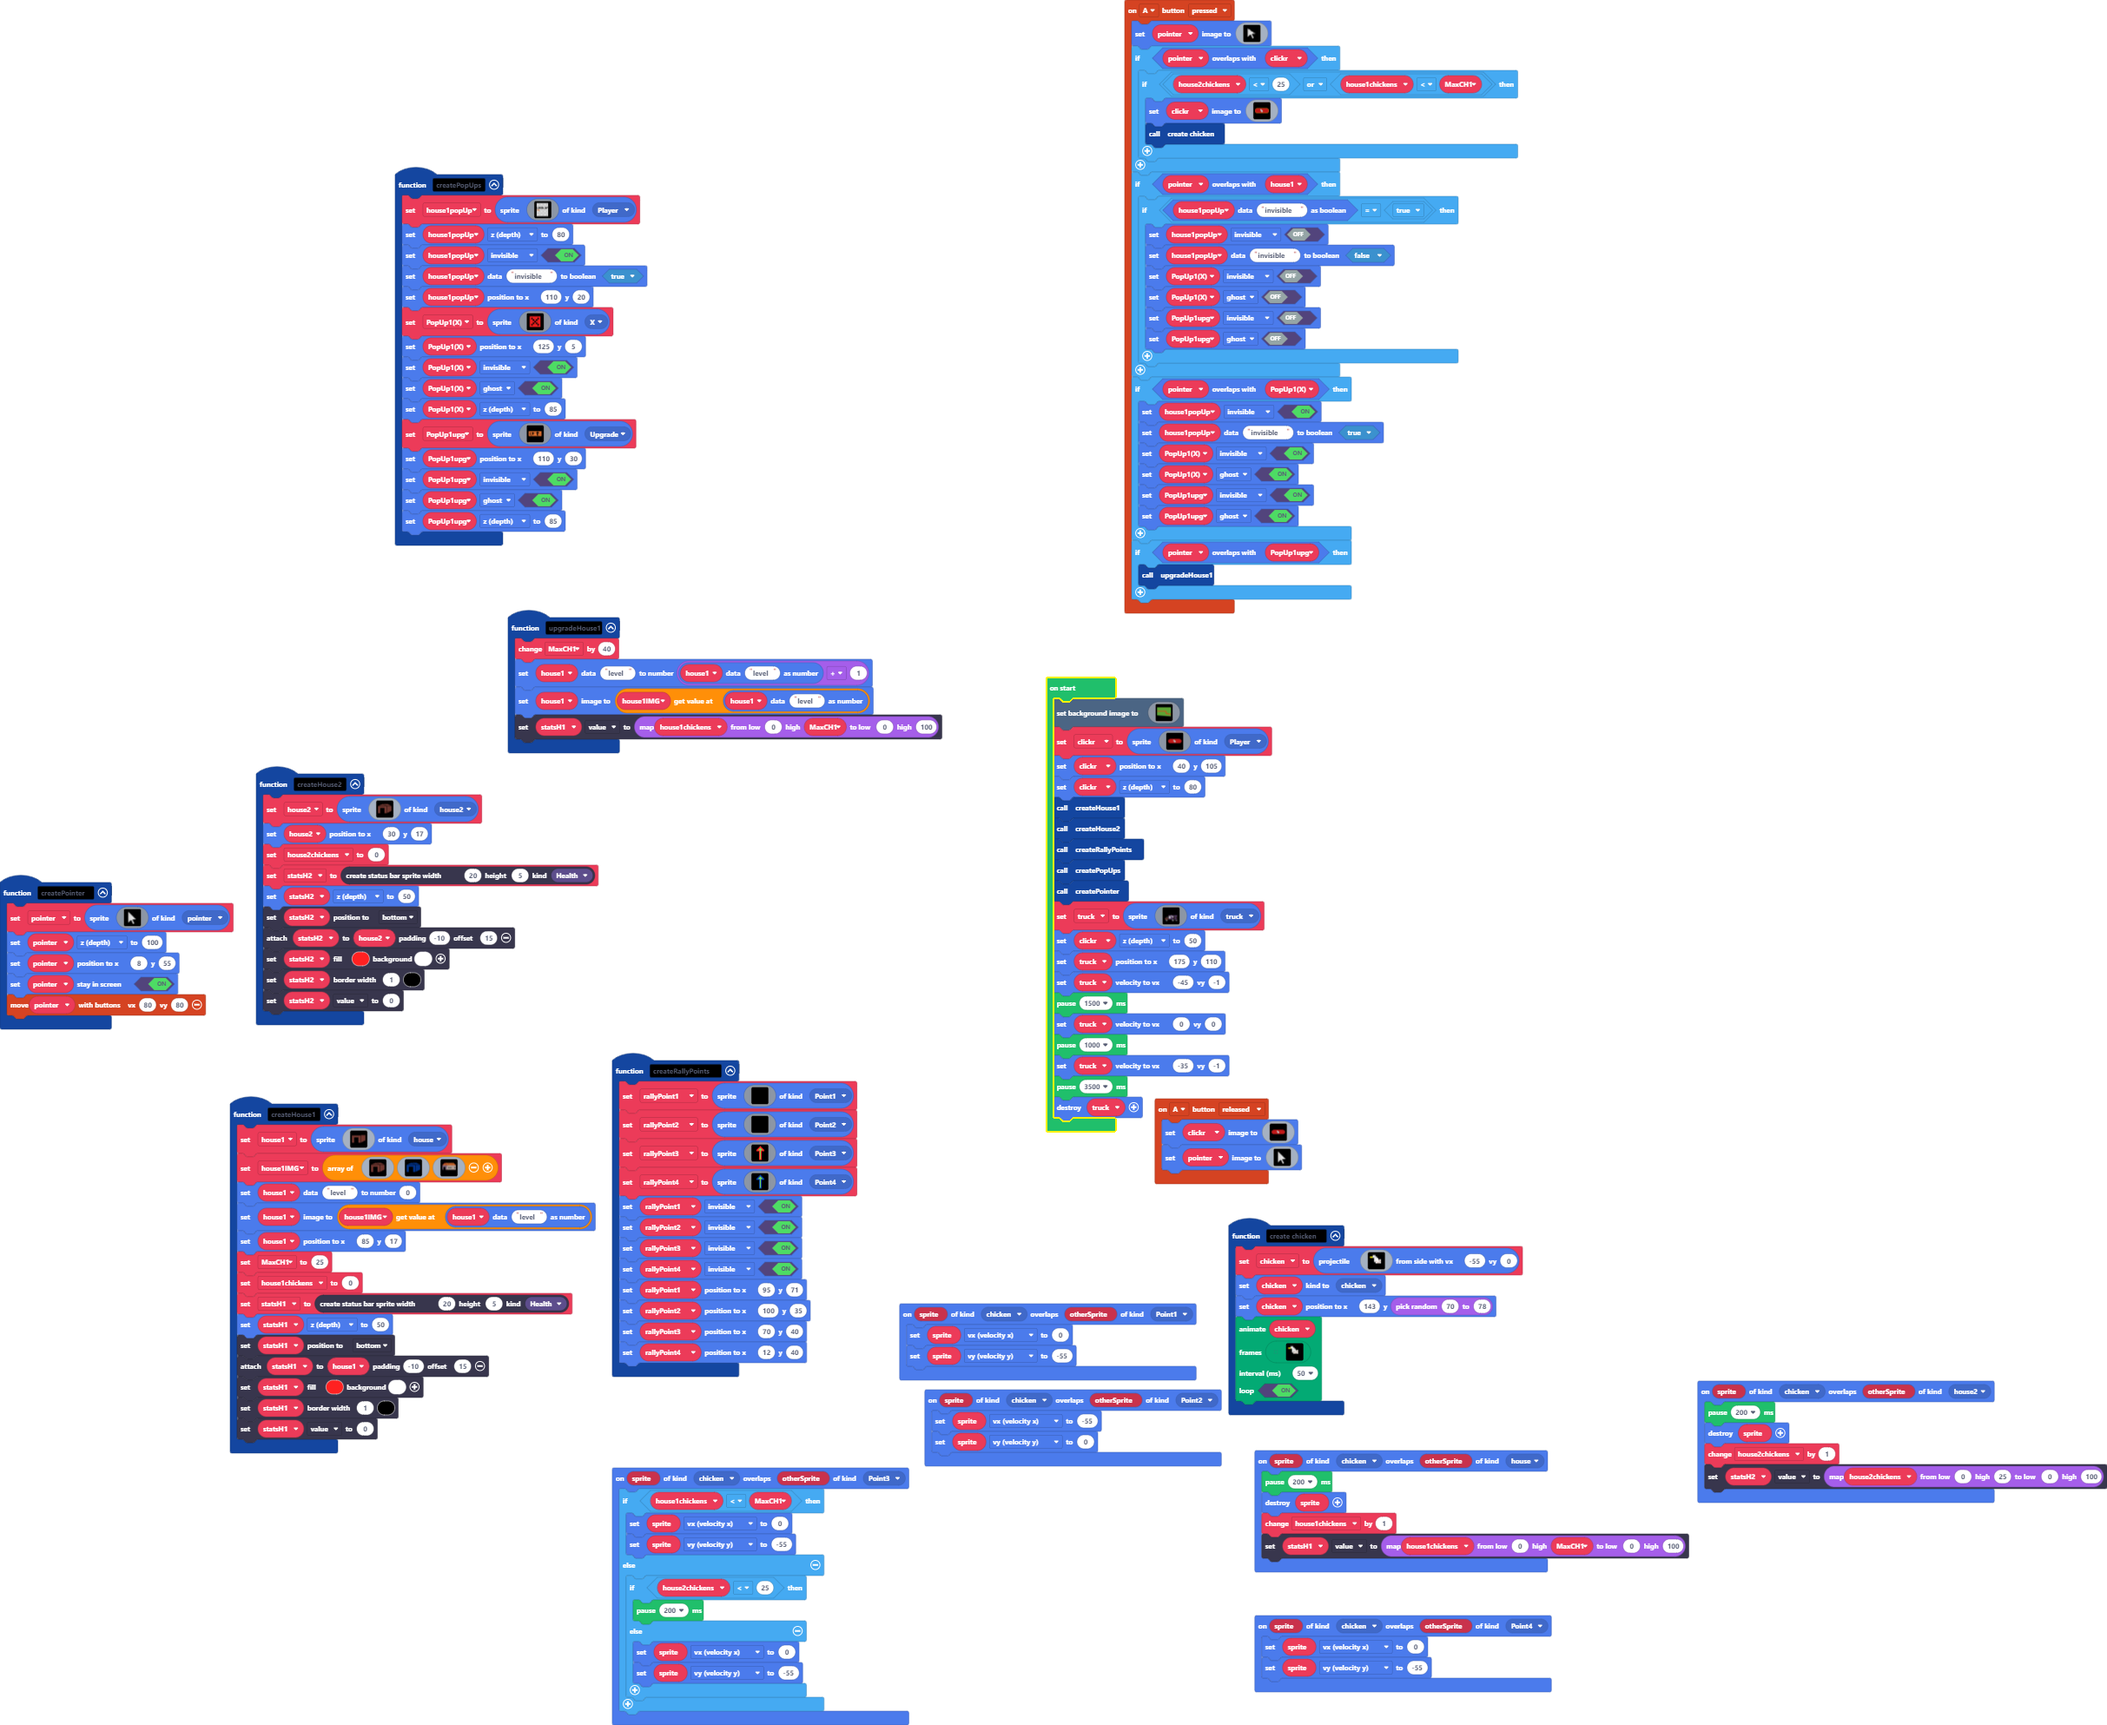
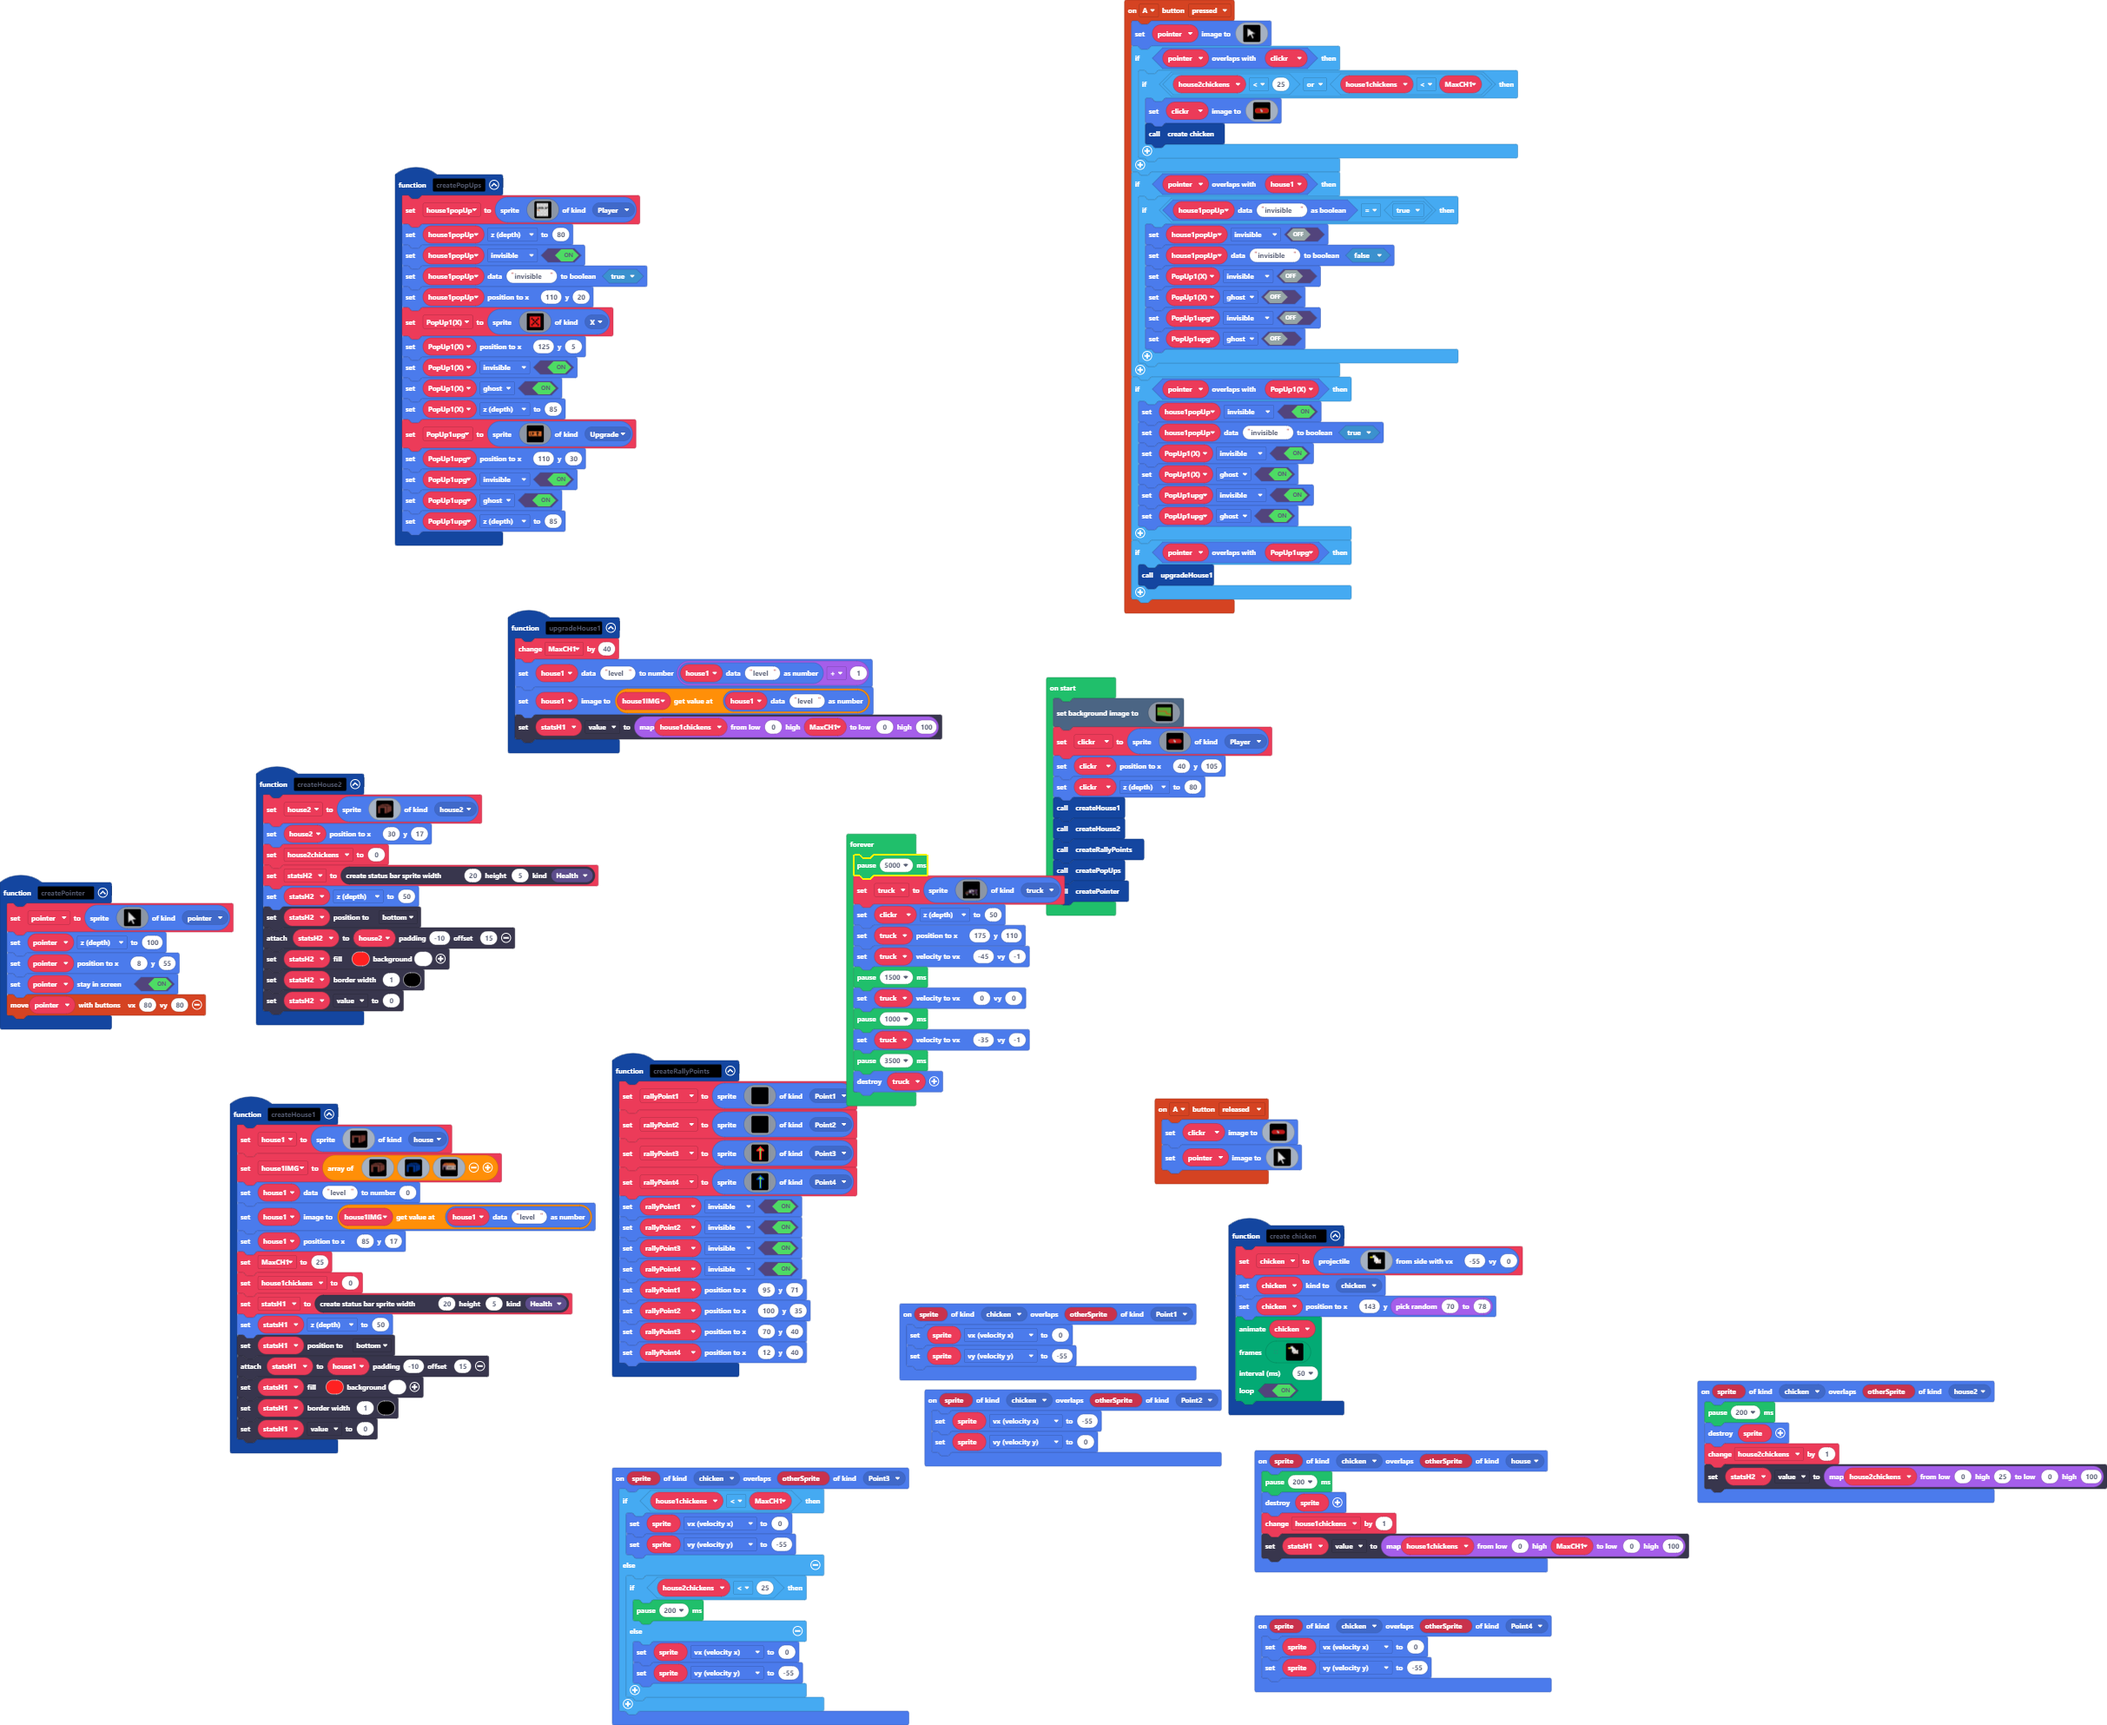
A truck will come every 5 seconds

Changed region(s): [[0.4019, 0.4683, 0.6183, 0.6556]]

diff --git a/main.ts b/main.ts
@@ -638,6 +638,7 @@ sprites.onOverlap(SpriteKind.chicken, SpriteKind.Point1, function (sprite, other
     sprite.vx = 0
     sprite.vy = -55
 })
+let truck: Sprite = null
 let statsH1: StatusBarSprite = null
 let house1IMG: Image[] = []
 let rallyPoint4: Sprite = null
@@ -811,44 +812,47 @@ createHouse2()
 createRallyPoints()
 createPopUps()
 createPointer()
-let truck = sprites.create(img`
-    ........................................
-    ........................................
-    ........................................
-    ........................................
-    ........................................
-    ........................................
-    ........................................
-    ........................................
-    ........................................
-    ..............ff........................
-    .............fff........................
-    .............ff.........................
-    ............fffffffffffffffffffffffffff.
-    ............fccccccc11ccccccfcccccccccf.
-    ...........ffccccccc1cccccccfcccccccccf.
-    ..........fefccc1ccc11ccccccfcccccccccf.
-    .........ffffcc111cc1cc11c11fcccccccccf.
-    ........feeefc11111c11c11c11fcccccccccf.
-    .....ffff66efc11111ccccc1cc1fffcccccfff.
-    ....feeef66efc11111cccc11c11f5fcccccf5f.
-    ...feeeef66efc11111cccccccccfffcccccfff.
-    ..ffffffeeeefc11111cccccccccf2fcccccf2f.
-    ..feeeeeeeeefcc111ccccccccccfffcccccfff.
-    ..feeeeeeeeefcccccccccccccccfcccccccccf.
-    ..feeefffeeefcccccccccccfffcfcccccccccf.
-    ..feef111feefccccccccccf111ffcccccccccf.
-    ..fff1fff1fffffffffffff1fff1fffffffffff.
-    .....1fff1.............1fff1.....1fff1..
-    .....1fff1.............1fff1......111...
-    ......111...............111.............
-    `, SpriteKind.truck)
-clickr.z = 50
-truck.setPosition(175, 110)
-truck.setVelocity(-45, -1)
-pause(1500)
-truck.setVelocity(0, 0)
-pause(1000)
-truck.setVelocity(-35, -1)
-pause(3500)
-truck.destroy()
+forever(function () {
+    pause(5000)
+    truck = sprites.create(img`
+        ........................................
+        ........................................
+        ........................................
+        ........................................
+        ........................................
+        ........................................
+        ........................................
+        ........................................
+        ........................................
+        ..............ff........................
+        .............fff........................
+        .............ff.........................
+        ............fffffffffffffffffffffffffff.
+        ............fccccccc11ccccccfcccccccccf.
+        ...........ffccccccc1cccccccfcccccccccf.
+        ..........fefccc1ccc11ccccccfcccccccccf.
+        .........ffffcc111cc1cc11c11fcccccccccf.
+        ........feeefc11111c11c11c11fcccccccccf.
+        .....ffff66efc11111ccccc1cc1fffcccccfff.
+        ....feeef66efc11111cccc11c11f5fcccccf5f.
+        ...feeeef66efc11111cccccccccfffcccccfff.
+        ..ffffffeeeefc11111cccccccccf2fcccccf2f.
+        ..feeeeeeeeefcc111ccccccccccfffcccccfff.
+        ..feeeeeeeeefcccccccccccccccfcccccccccf.
+        ..feeefffeeefcccccccccccfffcfcccccccccf.
+        ..feef111feefccccccccccf111ffcccccccccf.
+        ..fff1fff1fffffffffffff1fff1fffffffffff.
+        .....1fff1.............1fff1.....1fff1..
+        .....1fff1.............1fff1......111...
+        ......111...............111.............
+        `, SpriteKind.truck)
+    clickr.z = 50
+    truck.setPosition(175, 110)
+    truck.setVelocity(-45, -1)
+    pause(1500)
+    truck.setVelocity(0, 0)
+    pause(1000)
+    truck.setVelocity(-35, -1)
+    pause(3500)
+    truck.destroy()
+})
